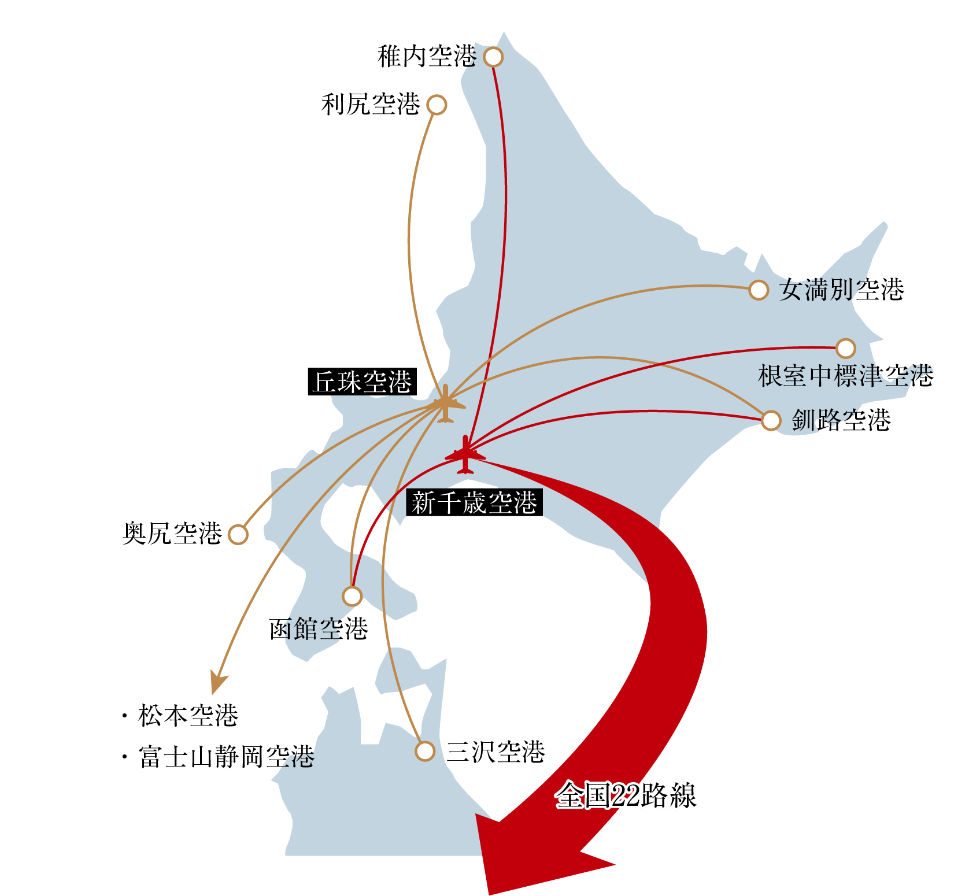
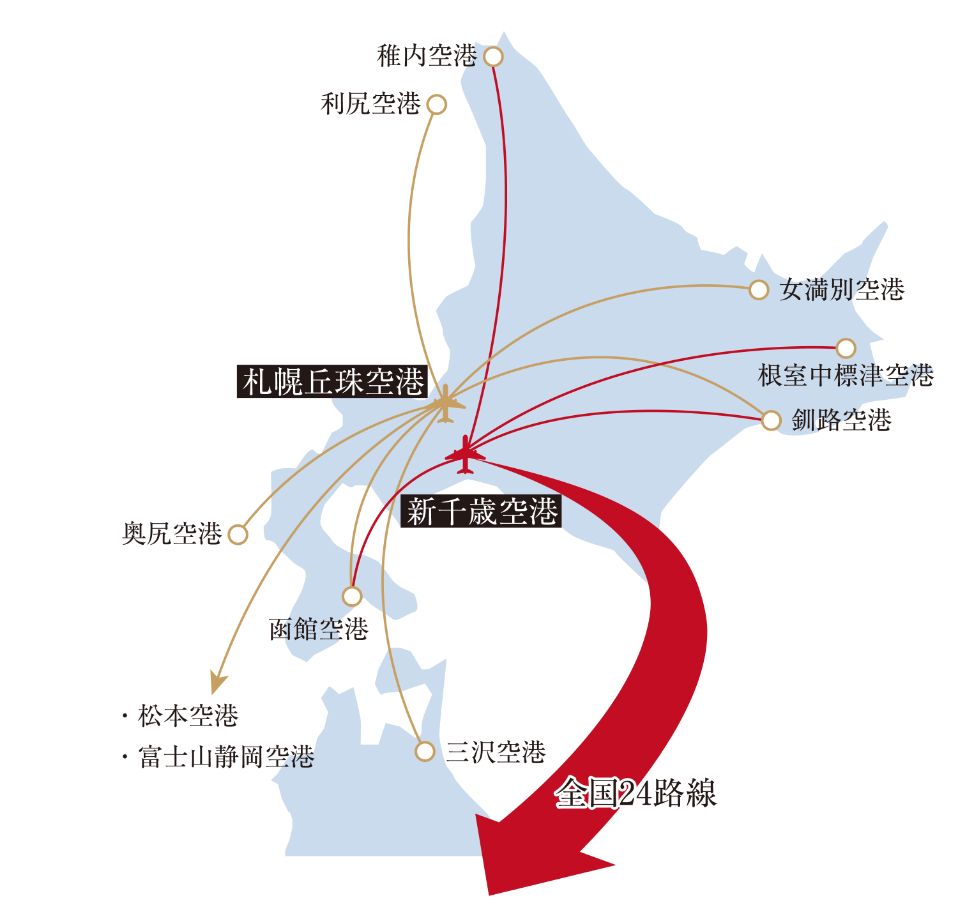
no message

diff --git a/access/index.html b/access/index.html
@@ -367,7 +367,7 @@
     <p class="cap">Image photo</p>
 </div>
 <div class="text">
-    <h3>新千歳空港から<br>全国へ<span class="number">22</span>路線が就航</h3>
+    <h3>新千歳空港から<br>全国へ<span class="number">24</span>路線が就航</h3>
     <p class="ttl">主な路線</p>
 <dl>
 <dt>◯東京（羽田）</dt><dd>…約1時間45分</dd>
